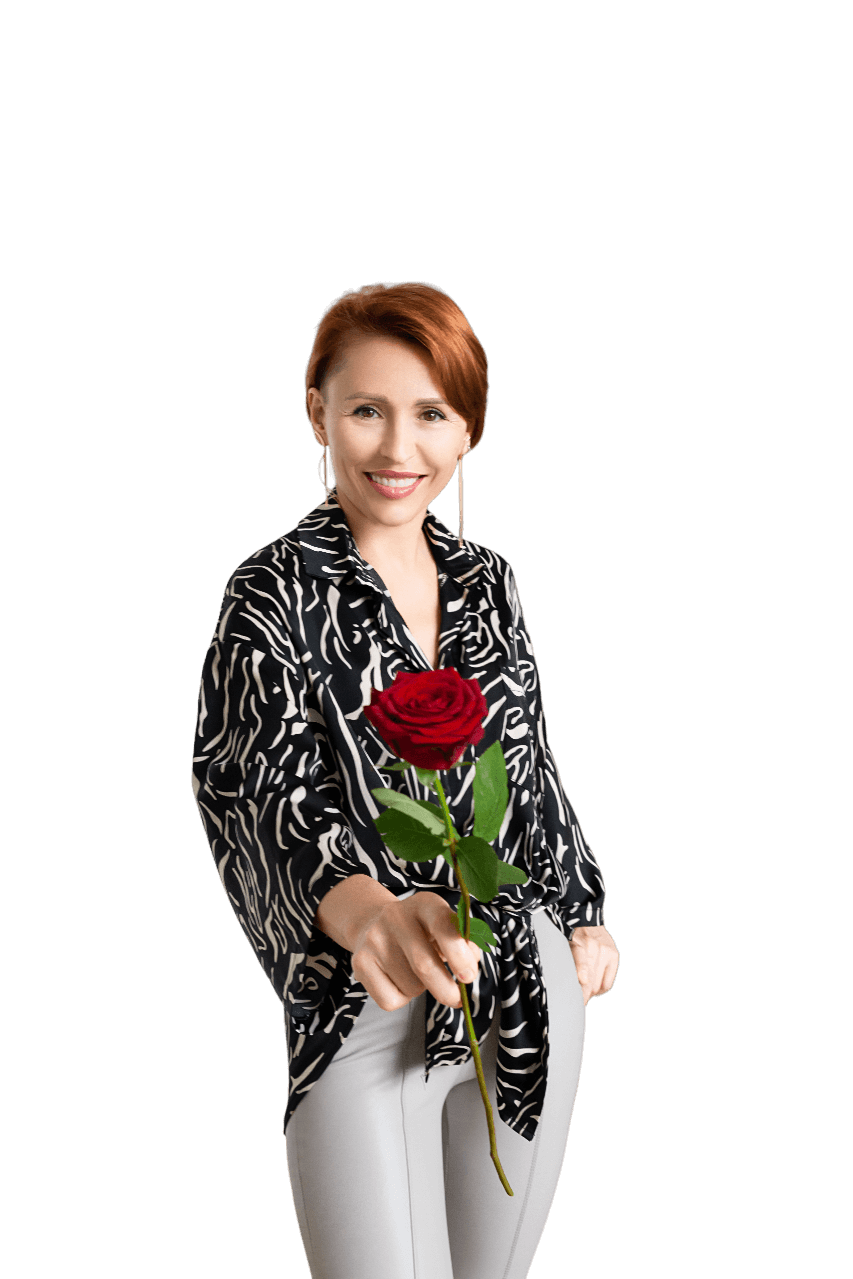
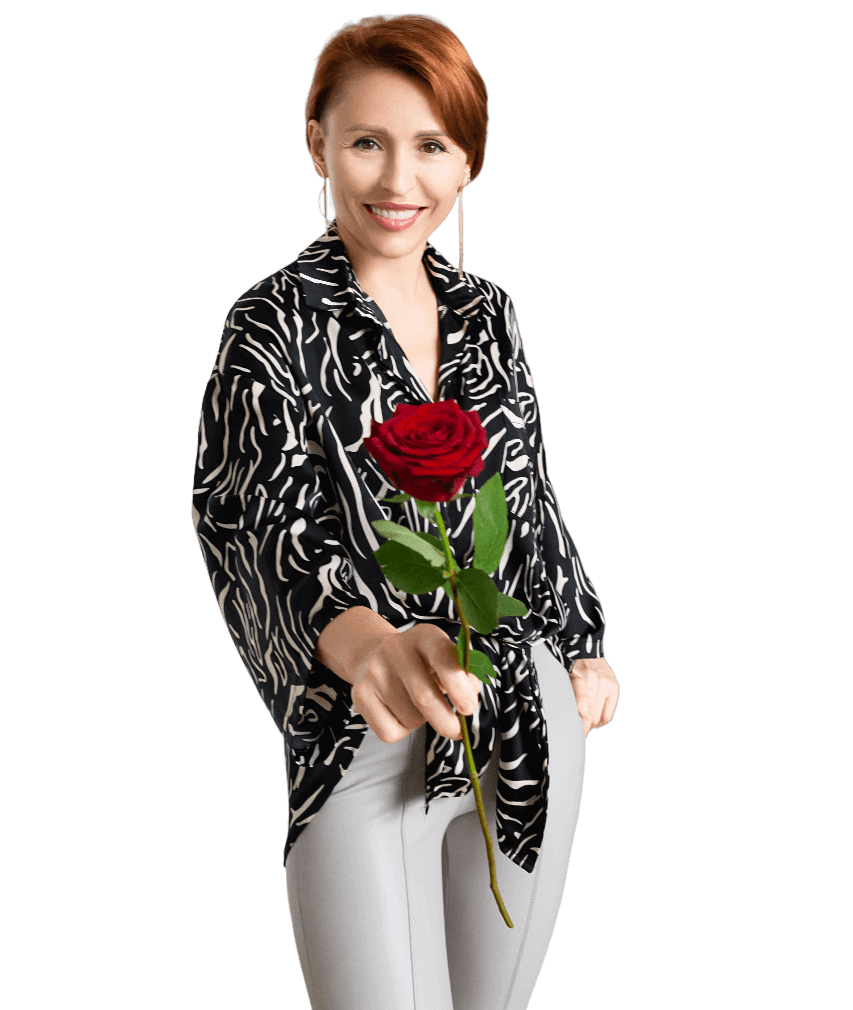
feat: add display grid for service cards

Changed region(s): [[0.2134, 0.0, 0.7315, 0.9822], [0.6096, 0.9515, 0.6401, 0.9822]]

diff --git a/components/Description/description.tsx b/components/Description/description.tsx
@@ -1,7 +1,7 @@
 import Image from 'next/image'
 import styles from './description.module.scss'
 import logo from '@/public/lib/logo/logo_type2.png'
-import master from '@/public/lib/home/master1.png'
+import master from '@/public/lib/home/master.png'
 
 export default function Description() {
   return (

diff --git a/styles/_variables.scss b/styles/_variables.scss
@@ -1,5 +1,5 @@
-$breakpoint--mobile: 640px; //!
-$breakpoint--tablet: 871px;
+$breakpoint--mobile: 1640px; //!
+$breakpoint--tablet: 1871px; //!
 
 @mixin desktop {
   @media (min-width: ($breakpoint--mobile + 1)) {

diff --git a/styles/Home.module.scss b/styles/Home.module.scss
@@ -1,3 +1,9 @@
+@use '@/styles/_variables';
+
 .main {
   padding: 1rem;
+  display: grid;
+  grid-template-columns: repeat(auto-fill, minmax(auto, 380px));
+  column-gap: 1rem;
+  justify-content: space-evenly;
 }

diff --git a/components/Description/description.module.scss b/components/Description/description.module.scss
@@ -203,4 +203,9 @@
   padding: 10px;
   width: 100%;
   text-align: center;
+
+  @include variables.tablet {
+    padding: calc((100px - 1.8rem) / 2);
+  }
 }
+
